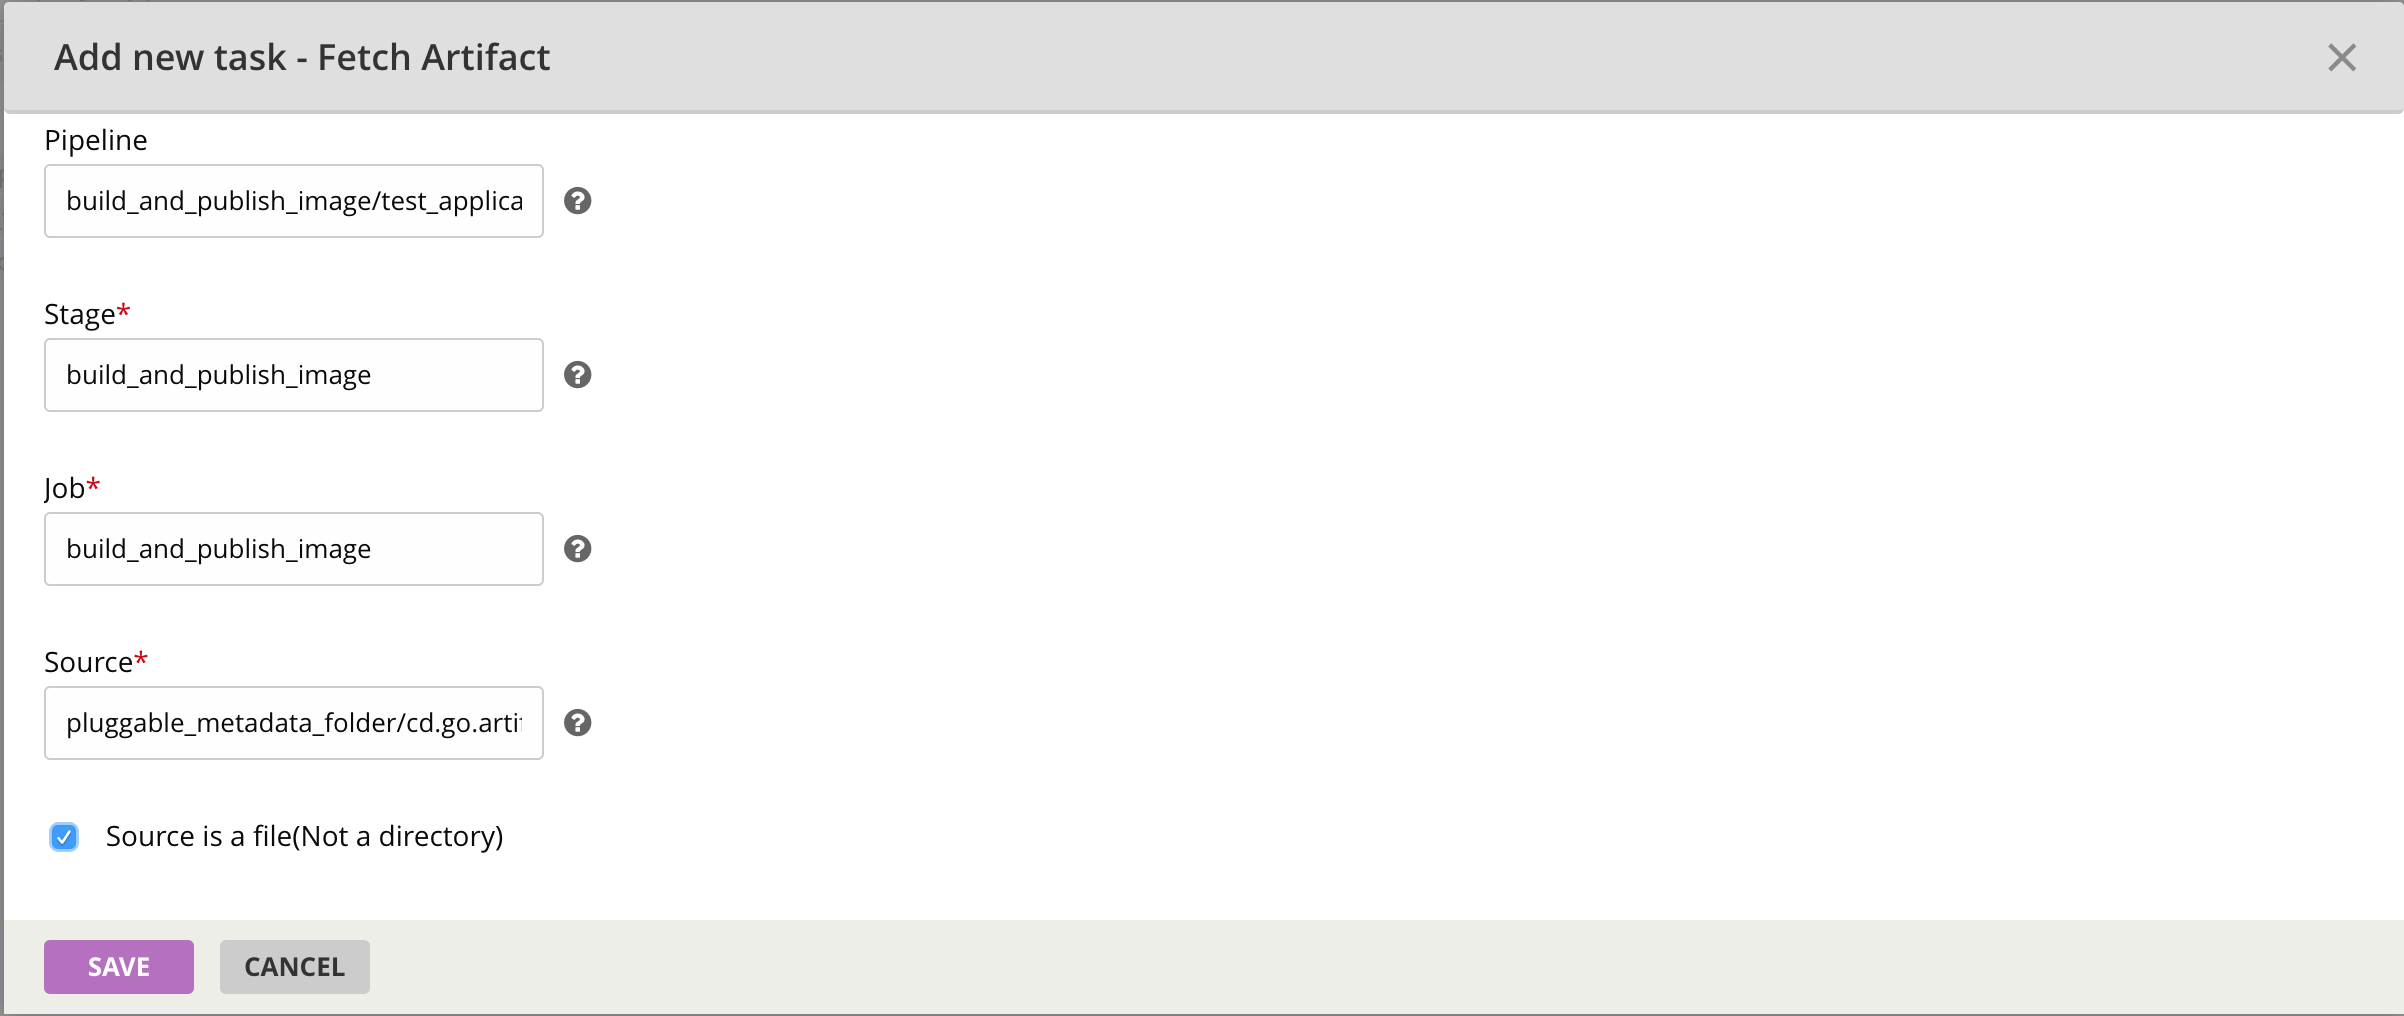
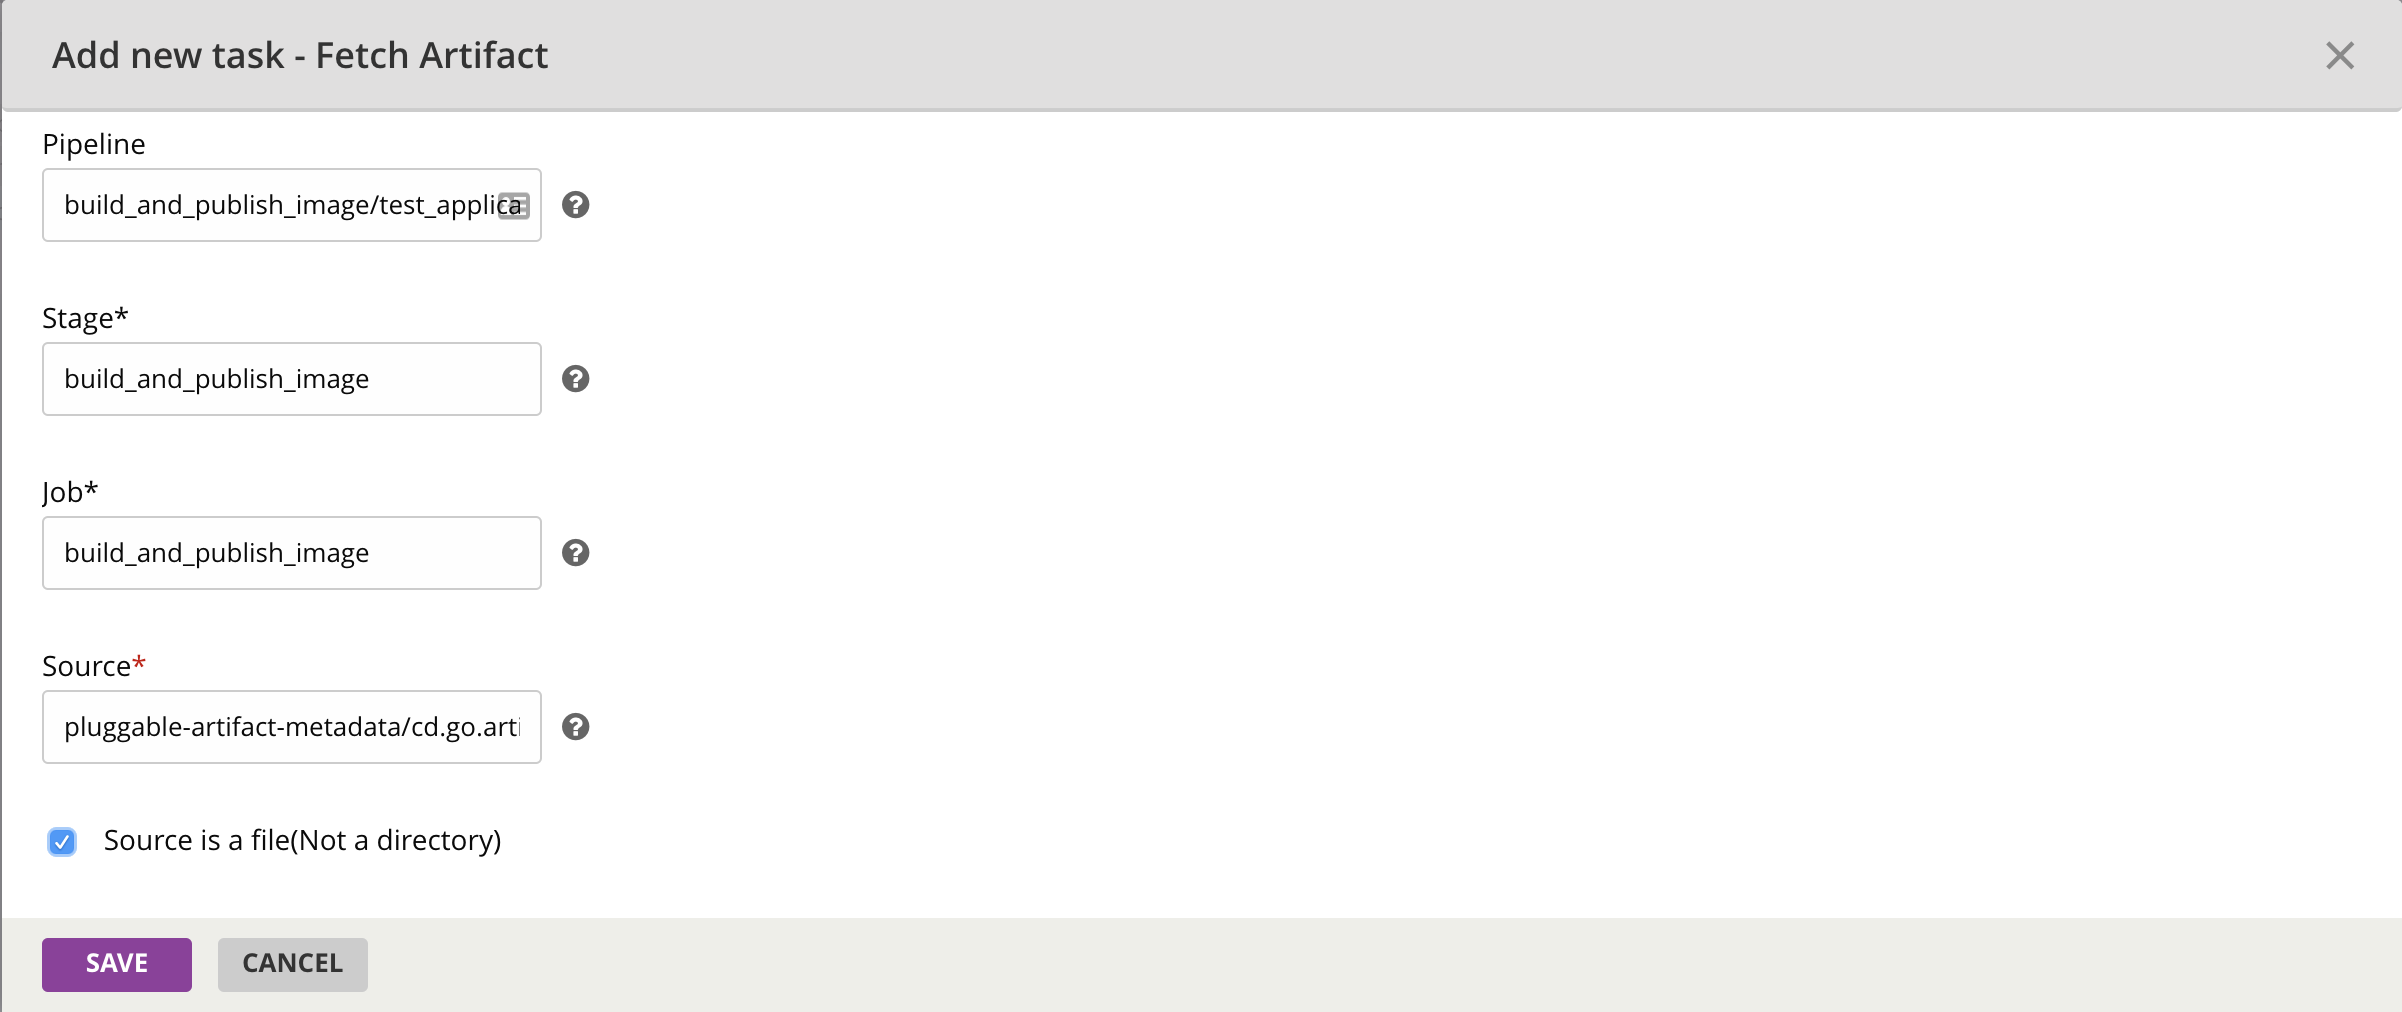
Change instructions for the k8s deploy pipeline. * Minor changes in screenshots.

diff --git a/gocd_on_kubernetes/designing_a_cd_pipeline/creating_a_deploy_pipeline.md b/gocd_on_kubernetes/designing_a_cd_pipeline/creating_a_deploy_pipeline.md
@@ -28,7 +28,7 @@ In this section, we’ll learn to design a deployment pipeline to deploy to Kube
 
 5. Create the initial job `deploy_to_cluster`. The initial task argument is
 
-    `PLUGIN_FILENAME=cd.go.artifact.docker.registry.json rake create_json`
+    `PLUGIN_FILENAME=cd.go.artifact.docker.registry.json ./create_json.sh`
 
     ![](../../resources/images/gocd-helm-chart/deploy_add_job.png)
 
@@ -55,7 +55,17 @@ In this section, we’ll learn to design a deployment pipeline to deploy to Kube
     ![](../../resources/images/gocd-helm-chart/env_vars_deploy.png)
     
 8. Configure a `Fetch Artifact Task` to fetch the plugin json file. This is the file that is present in the upstream `build_and_publish_image` which stores the information about the image that's been published.
-   
+    
+    Specify the pipeline as `build_and_publish_image/test_application`.
+
+    Specify the stage as `build_and_publish_image`.
+
+    Specify the job as `build_and_publish_image`.
+
+    Specify the source as `pluggable-artifact-metadata/cd.go.artifact.docker.registry.json`
+
+    Check the box that indicates `Source is a file (not a directory)`.
+
     ![](../../resources/images/gocd-helm-chart/deploy_fetch_task.png)
 
 9. Configure a task to call the `./app-deployment.sh` script.

diff --git a/gocd_on_kubernetes/designing_a_cd_pipeline/creating_a_test_pipeline.md b/gocd_on_kubernetes/designing_a_cd_pipeline/creating_a_test_pipeline.md
@@ -47,6 +47,8 @@ To pull our application docker image artifact from Docker Hub and run tests, fol
      
 7. Add the `Fetch External Artifact task` to pull the built image from Docker Hub.
 
+    ![](../../resources/images/gocd-helm-chart/test_application_fetch_task.png)
+
 8. Reorder the tasks as shown as we want to first fetch the image before running any tests.
 
    ![](../../resources/images/gocd-helm-chart/test_application_tasks.png)   
@@ -95,3 +97,5 @@ Once you’ve associated the job to the profile, you’re ready to run the pipel
 Now that the test pipeline is configured, we can run it to verify that the tests have been run.
 
 To run the pipeline, unpause the pipeline in the GoCD dashboard. The changes in the source git repository get picked up automatically when the pipeline is triggered.
+
+In the [next section](creating_a_deploy_pipeline.md), we'll look at how to configure a pipeline to deploy our sample application onto a Kubernetes cluster.

diff --git a/gocd_on_kubernetes/designing_a_cd_pipeline/creating_a_build_pipeline.md b/gocd_on_kubernetes/designing_a_cd_pipeline/creating_a_build_pipeline.md
@@ -164,4 +164,4 @@ To access the agent status report,
 
 Once the pipeline has run successfully, you can go to your DockerHub account to verify if the image has been published.
 
-In the [next section](creating_a_deploy_pipeline.md), we'll look at how to configure a pipeline to deploy our sample application onto a Kubernetes cluster.
+In the [next section](creating_a_test_pipeline.md), we'll look at how to configure a pipeline to test our sample application's docker image.
